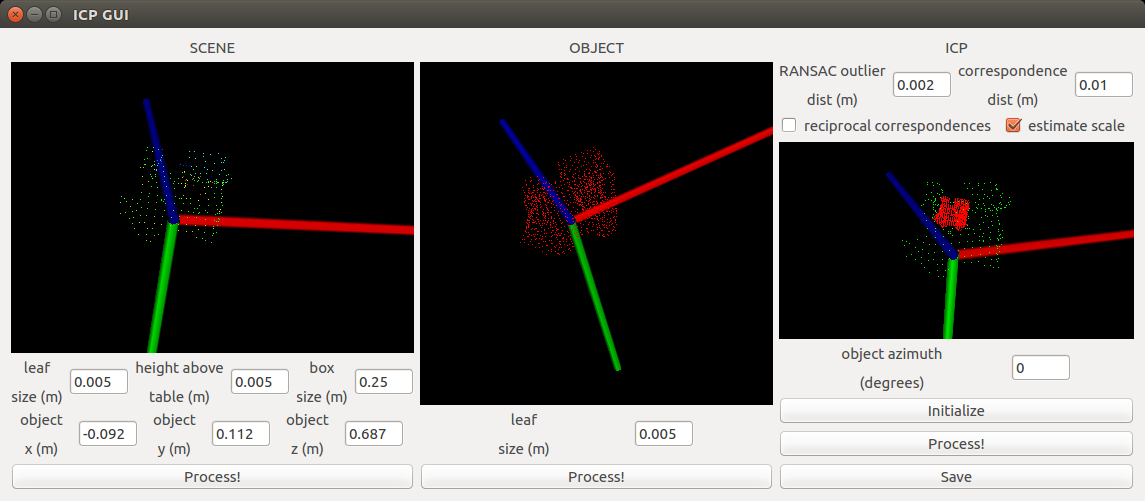
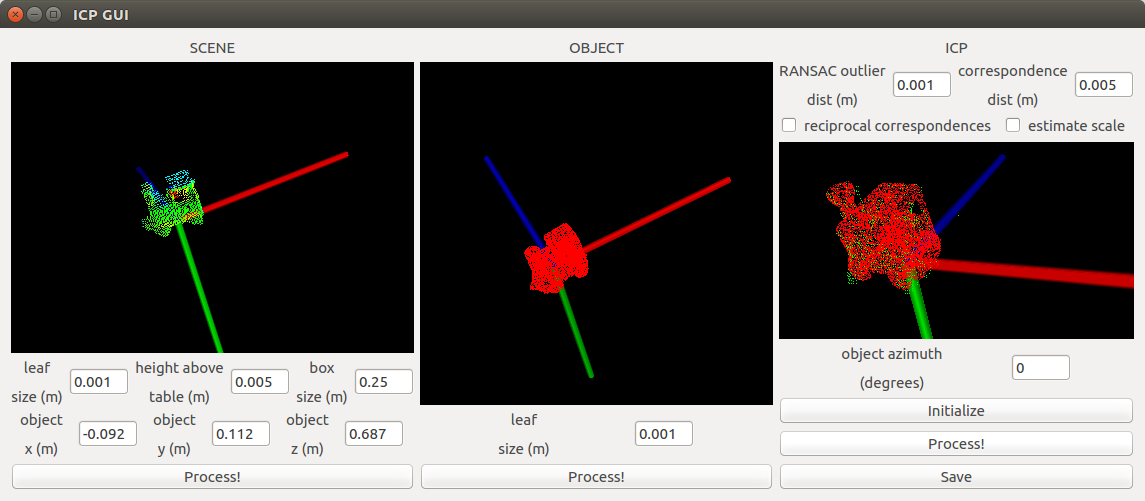
added automatic scaling of object w.r.t. scene, updated final screenshot

diff --git a/poseestimator.cpp b/poseestimator.cpp
@@ -1,5 +1,6 @@
 #include "poseestimator.h"
 
+#include <pcl/common/common.h>
 #include <pcl/filters/crop_box.h>
 #include <pcl/segmentation/sac_segmentation.h>
 #include <pcl/segmentation/extract_polygonal_prism_data.h>
@@ -115,6 +116,11 @@ void PoseEstimator::process_scene() {
   T(1, 3) = object_init_y;
   T(2, 3) = object_init_z;
   transformPointCloud(*obj, *scene_processed, invert_pose(T));
+
+  // measure its size along X axis
+  PointT min_pt, max_pt;
+  getMinMax3D<PointT>(*scene_processed, min_pt, max_pt);
+  x_size = fabs(max_pt.x - min_pt.x);
 }
 
 void PoseEstimator::process_object() {
@@ -125,7 +131,17 @@ void PoseEstimator::process_object() {
 
   // orient by tabletop
   tformT T = get_tabletop_rot();
-  transformPointCloud(*subs, *object_processed, T);
+  PointCloudT::Ptr osubs = boost::make_shared<PointCloudT>();
+  transformPointCloud(*subs, *osubs, T);
+
+  // scale by size of object in scene
+  PointT min_pt, max_pt;
+  getMinMax3D<PointT>(*osubs, min_pt, max_pt);
+  float scale = x_size / fabs(max_pt.x - min_pt.x);
+  T = tformT::Identity();
+  T(0, 0) = T(1, 1) = T(2, 2) = scale;
+  transformPointCloud(*osubs, *object_processed, T);
+  cout << "Scaled object by " << scale << "x" << endl;
 }
 
 PoseEstimator::tformT PoseEstimator::get_tabletop_rot(Eigen::Vector3f obj_normal) {

diff --git a/poseestimator.h b/poseestimator.h
@@ -72,6 +72,7 @@ private:
   pcl::ModelCoefficientsPtr scene_plane_coeffs;
   PointCloudT::Ptr scene_hull_points;
   tformT object_pose;
+  float x_size;  // size of object along X axis in the scene
 };
 
 #endif // POSEESTIMATOR_H
